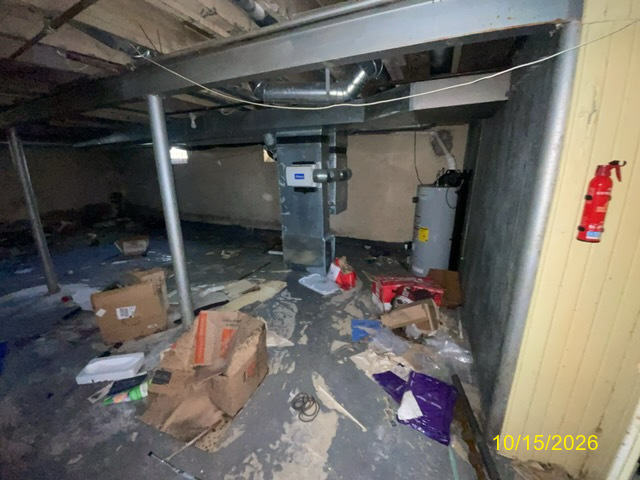
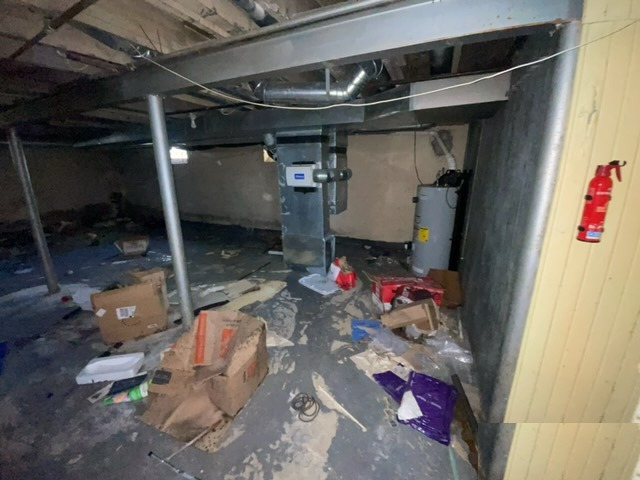
Production readiness: fix hero image, remove date stamps, harden contact form
- Swap hero to house-exterior.jpg (no date stamp)
- Remove yellow date stamps from 11 project photos
- Compress cabinet-before.jpg (2.2MB -> 231KB)
- Strengthen About section gradient overlay
- Fix contact form: fail visibly when Resend unavailable, add XSS
  escaping, remove PII logging, add rate-limit map pruning
- Fix City/State/ZIP form layout for mobile (320px)
- Remove unused hero-lawn.jpg
- Add .vercel and .env* to .gitignore

Changed region(s): [[0.75, 0.875, 1.0, 1.0]]

diff --git a/src/app/api/contact/route.ts b/src/app/api/contact/route.ts
@@ -15,21 +15,43 @@ interface ContactPayload {
   contactMethod?: string;
 }
 
+function escapeHtml(str: string): string {
+  return str
+    .replace(/&/g, "&amp;")
+    .replace(/</g, "&lt;")
+    .replace(/>/g, "&gt;")
+    .replace(/"/g, "&quot;");
+}
+
 const rateLimit = new Map<string, { count: number; resetAt: number }>();
+const RATE_LIMIT_WINDOW = 60_000;
+const RATE_LIMIT_MAX = 5;
 
 function checkRateLimit(ip: string): boolean {
   const now = Date.now();
   const entry = rateLimit.get(ip);
   if (!entry || now > entry.resetAt) {
-    rateLimit.set(ip, { count: 1, resetAt: now + 60_000 });
+    rateLimit.set(ip, { count: 1, resetAt: now + RATE_LIMIT_WINDOW });
     return true;
   }
-  if (entry.count >= 5) return false;
+  if (entry.count >= RATE_LIMIT_MAX) return false;
   entry.count++;
   return true;
 }
 
+// Prevent unbounded memory growth
+function pruneRateLimitMap() {
+  const now = Date.now();
+  if (rateLimit.size > 1000) {
+    rateLimit.forEach((val, key) => {
+      if (now > val.resetAt) rateLimit.delete(key);
+    });
+  }
+}
+
 export async function POST(request: NextRequest) {
+  pruneRateLimitMap();
+
   const ip =
     request.headers.get("x-forwarded-for")?.split(",")[0]?.trim() ||
     "unknown";
@@ -71,42 +93,43 @@ export async function POST(request: NextRequest) {
     process.env.CONTACT_EMAIL || "service@bluestonehomellc.com";
 
   if (!apiKey) {
-    console.log("Contact form submission (Resend not configured):", body);
-    return NextResponse.json({
-      success: true,
-      message: "Request received. Email delivery is being configured.",
-    });
+    console.error("RESEND_API_KEY is not configured — form submission dropped");
+    return NextResponse.json(
+      { error: "Our contact system is temporarily unavailable. Please email us directly at service@bluestonehomellc.com." },
+      { status: 503 }
+    );
   }
 
   try {
     const { Resend } = await import("resend");
     const resend = new Resend(apiKey);
 
+    const s = (v: string) => escapeHtml(v);
     await resend.emails.send({
       from: "Bluestone Home Solutions <onboarding@resend.dev>",
       to: contactEmail,
-      subject: `New Estimate Request from ${body.name}`,
+      subject: `New Estimate Request from ${s(body.name)}`,
       html: `
         <h2>New Estimate Request</h2>
         <table style="border-collapse:collapse;width:100%;max-width:600px;">
-          <tr><td style="padding:8px;border:1px solid #ddd;font-weight:bold;">Name</td><td style="padding:8px;border:1px solid #ddd;">${body.name}</td></tr>
-          ${body.company ? `<tr><td style="padding:8px;border:1px solid #ddd;font-weight:bold;">Company</td><td style="padding:8px;border:1px solid #ddd;">${body.company}</td></tr>` : ""}
-          <tr><td style="padding:8px;border:1px solid #ddd;font-weight:bold;">Email</td><td style="padding:8px;border:1px solid #ddd;">${body.email}</td></tr>
-          <tr><td style="padding:8px;border:1px solid #ddd;font-weight:bold;">Phone</td><td style="padding:8px;border:1px solid #ddd;">${body.phone}</td></tr>
-          ${body.service ? `<tr><td style="padding:8px;border:1px solid #ddd;font-weight:bold;">Service</td><td style="padding:8px;border:1px solid #ddd;">${body.service}</td></tr>` : ""}
-          ${body.propertyType ? `<tr><td style="padding:8px;border:1px solid #ddd;font-weight:bold;">Property Type</td><td style="padding:8px;border:1px solid #ddd;">${body.propertyType}</td></tr>` : ""}
-          ${body.propertyAddress ? `<tr><td style="padding:8px;border:1px solid #ddd;font-weight:bold;">Property Address</td><td style="padding:8px;border:1px solid #ddd;">${body.propertyAddress}${body.city ? `, ${body.city}` : ""}${body.state ? `, ${body.state}` : ""} ${body.zip || ""}</td></tr>` : ""}
-          ${body.contactMethod ? `<tr><td style="padding:8px;border:1px solid #ddd;font-weight:bold;">Preferred Contact</td><td style="padding:8px;border:1px solid #ddd;">${body.contactMethod}</td></tr>` : ""}
-          ${body.message ? `<tr><td style="padding:8px;border:1px solid #ddd;font-weight:bold;">Message</td><td style="padding:8px;border:1px solid #ddd;">${body.message}</td></tr>` : ""}
+          <tr><td style="padding:8px;border:1px solid #ddd;font-weight:bold;">Name</td><td style="padding:8px;border:1px solid #ddd;">${s(body.name)}</td></tr>
+          ${body.company ? `<tr><td style="padding:8px;border:1px solid #ddd;font-weight:bold;">Company</td><td style="padding:8px;border:1px solid #ddd;">${s(body.company)}</td></tr>` : ""}
+          <tr><td style="padding:8px;border:1px solid #ddd;font-weight:bold;">Email</td><td style="padding:8px;border:1px solid #ddd;">${s(body.email)}</td></tr>
+          <tr><td style="padding:8px;border:1px solid #ddd;font-weight:bold;">Phone</td><td style="padding:8px;border:1px solid #ddd;">${s(body.phone)}</td></tr>
+          ${body.service ? `<tr><td style="padding:8px;border:1px solid #ddd;font-weight:bold;">Service</td><td style="padding:8px;border:1px solid #ddd;">${s(body.service)}</td></tr>` : ""}
+          ${body.propertyType ? `<tr><td style="padding:8px;border:1px solid #ddd;font-weight:bold;">Property Type</td><td style="padding:8px;border:1px solid #ddd;">${s(body.propertyType)}</td></tr>` : ""}
+          ${body.propertyAddress ? `<tr><td style="padding:8px;border:1px solid #ddd;font-weight:bold;">Property Address</td><td style="padding:8px;border:1px solid #ddd;">${s(body.propertyAddress)}${body.city ? `, ${s(body.city)}` : ""}${body.state ? `, ${s(body.state)}` : ""} ${body.zip ? s(body.zip) : ""}</td></tr>` : ""}
+          ${body.contactMethod ? `<tr><td style="padding:8px;border:1px solid #ddd;font-weight:bold;">Preferred Contact</td><td style="padding:8px;border:1px solid #ddd;">${s(body.contactMethod)}</td></tr>` : ""}
+          ${body.message ? `<tr><td style="padding:8px;border:1px solid #ddd;font-weight:bold;">Message</td><td style="padding:8px;border:1px solid #ddd;">${s(body.message)}</td></tr>` : ""}
         </table>
       `,
     });
 
     return NextResponse.json({ success: true });
   } catch (error) {
-    console.error("Email send failed:", error);
+    console.error("Email delivery failed:", error instanceof Error ? error.message : "Unknown error");
     return NextResponse.json(
-      { error: "Failed to send email. Please try again." },
+      { error: "Failed to send your request. Please try again or email us directly at service@bluestonehomellc.com." },
       { status: 500 }
     );
   }

diff --git a/src/components/contact-form.tsx b/src/components/contact-form.tsx
@@ -337,7 +337,7 @@ export function ContactForm() {
                 </div>
 
                 {/* City, State, ZIP */}
-                <div className="grid grid-cols-5 gap-4 mb-4">
+                <div className="grid grid-cols-2 sm:grid-cols-5 gap-4 mb-4">
                   <div className="col-span-2">
                     <label
                       htmlFor="city"
@@ -369,7 +369,7 @@ export function ContactForm() {
                       maxLength={2}
                     />
                   </div>
-                  <div className="col-span-2">
+                  <div className="col-span-1 sm:col-span-2">
                     <label
                       htmlFor="zip"
                       className="block text-xs font-semibold text-navy mb-1.5"

diff --git a/src/components/hero.tsx b/src/components/hero.tsx
@@ -7,8 +7,8 @@ export function Hero() {
       {/* Background image */}
       <div className="absolute inset-0">
         <Image
-          src="/images/hero-lawn.jpg"
-          alt="Well-maintained property lawn"
+          src="/images/house-exterior.jpg"
+          alt="Residential property maintained by Bluestone Home Solutions"
           fill
           className="object-cover"
           priority

diff --git a/src/components/about.tsx b/src/components/about.tsx
@@ -31,7 +31,7 @@ export function About() {
               className="object-cover"
               sizes="(max-width: 1024px) 100vw, 50vw"
             />
-            <div className="absolute inset-0 bg-gradient-to-t from-navy/30 to-transparent" />
+            <div className="absolute inset-0 bg-gradient-to-t from-navy/60 via-navy/10 to-transparent" />
           </motion.div>
 
           {/* Text */}
